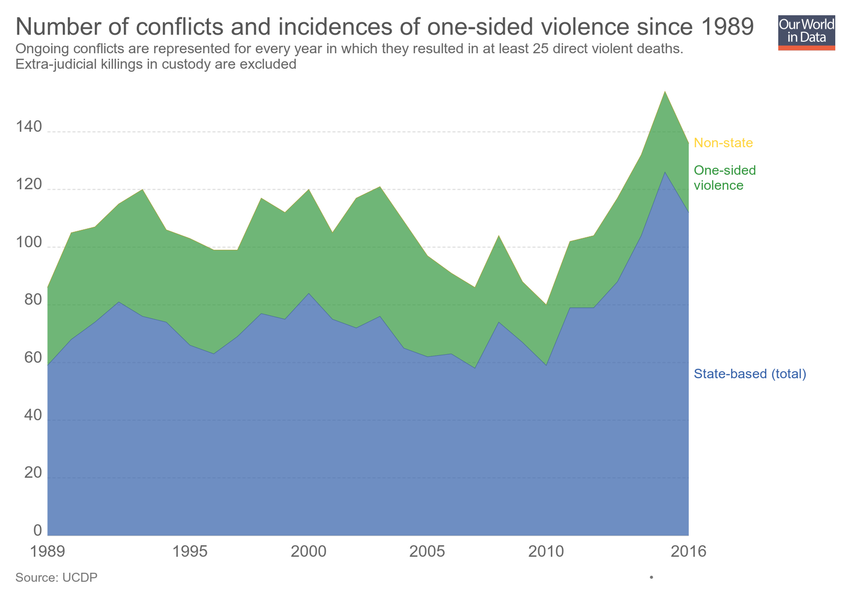
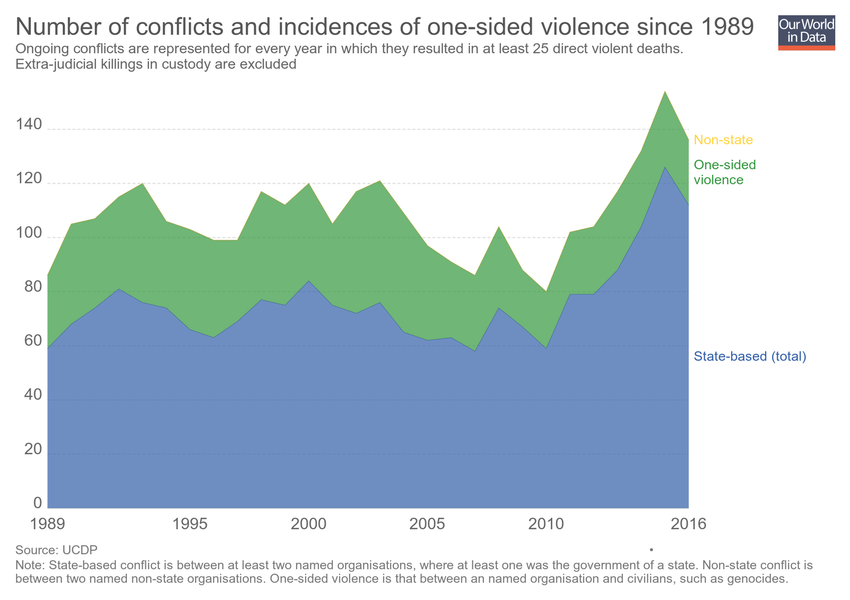
Updating chart number-of-conflicts-and-incidences-of-one-sided-violence-since-1989

diff --git a/grapher/number-of-conflicts-and-incidences-of-one-sided-violence-since-1989.html b/grapher/number-of-conflicts-and-incidences-of-one-sided-violence-since-1989.html
@@ -1,4 +1,4 @@
-<!doctype html><html><head><meta name="viewport" content="width=device-width, initial-scale=1" /><title>Number of conflicts and incidences of one-sided violence since 1989 - Our World in Data</title><meta name="description" content="Ongoing conflicts are represented for every year in which they resulted in at least 25 direct violent deaths. Extra-judicial killings in custody are excluded " /><link rel="canonical" href="https://ourworldindata.org/grapher/number-of-conflicts-and-incidences-of-one-sided-violence-since-1989" /><meta property="fb:app_id" content="1149943818390250" /><meta property="og:url" content="https://ourworldindata.org/grapher/number-of-conflicts-and-incidences-of-one-sided-violence-since-1989" /><meta property="og:title" content="Number of conflicts and incidences of one-sided violence since 1989" /><meta property="og:description" content="Ongoing conflicts are represented for every year in which they resulted in at least 25 direct violent deaths. Extra-judicial killings in custody are excluded " /><meta property="og:image" content="https://ourworldindata.org/grapher/exports/number-of-conflicts-and-incidences-of-one-sided-violence-since-1989.png?v=3" /><meta property="og:image:width" content="850" /><meta property="og:image:height" content="600" /><meta property="og:site_name" content="Our World in Data" /><meta name="twitter:card" content="summary_large_image" /><meta name="twitter:site" content="@OurWorldInData" /><meta name="twitter:creator" content="@OurWorldInData" /><meta name="twitter:title" content="Number of conflicts and incidences of one-sided violence since 1989" /><meta name="twitter:description" content="Ongoing conflicts are represented for every year in which they resulted in at least 25 direct violent deaths. Extra-judicial killings in custody are excluded " /><meta name="twitter:image" content="https://ourworldindata.org/grapher/exports/number-of-conflicts-and-incidences-of-one-sided-violence-since-1989.png?v=3" /><style>
+<!doctype html><html><head><meta name="viewport" content="width=device-width, initial-scale=1" /><title>Number of conflicts and incidences of one-sided violence since 1989 - Our World in Data</title><meta name="description" content="Ongoing conflicts are represented for every year in which they resulted in at least 25 direct violent deaths. Extra-judicial killings in custody are excluded " /><link rel="canonical" href="https://ourworldindata.org/grapher/number-of-conflicts-and-incidences-of-one-sided-violence-since-1989" /><meta property="fb:app_id" content="1149943818390250" /><meta property="og:url" content="https://ourworldindata.org/grapher/number-of-conflicts-and-incidences-of-one-sided-violence-since-1989" /><meta property="og:title" content="Number of conflicts and incidences of one-sided violence since 1989" /><meta property="og:description" content="Ongoing conflicts are represented for every year in which they resulted in at least 25 direct violent deaths. Extra-judicial killings in custody are excluded " /><meta property="og:image" content="https://ourworldindata.org/grapher/exports/number-of-conflicts-and-incidences-of-one-sided-violence-since-1989.png?v=4" /><meta property="og:image:width" content="850" /><meta property="og:image:height" content="600" /><meta property="og:site_name" content="Our World in Data" /><meta name="twitter:card" content="summary_large_image" /><meta name="twitter:site" content="@OurWorldInData" /><meta name="twitter:creator" content="@OurWorldInData" /><meta name="twitter:title" content="Number of conflicts and incidences of one-sided violence since 1989" /><meta name="twitter:description" content="Ongoing conflicts are represented for every year in which they resulted in at least 25 direct violent deaths. Extra-judicial killings in custody are excluded " /><meta name="twitter:image" content="https://ourworldindata.org/grapher/exports/number-of-conflicts-and-incidences-of-one-sided-violence-since-1989.png?v=4" /><style>
         html, body {
             height: 100%;
             margin: 0;
@@ -20,8 +20,8 @@
         }
     </style><noscript><style>
                     figure { display: none !important; }
-                </style></noscript><link rel="stylesheet" href="https://ourworldindata.org/grapher/assets/commons.bundle.62f8703dfc964fd3975c.css" /><link rel="preload" href="/grapher/data/variables/97370.json?v=3" as="fetch" crossorigin /></head><body class="singleChart"><figure data-grapher-src="/grapher/number-of-conflicts-and-incidences-of-one-sided-violence-since-1989"></figure><noscript id="fallback"><img src="/grapher/exports/number-of-conflicts-and-incidences-of-one-sided-violence-since-1989.svg" /><p>Interactive visualization requires JavaScript</p></noscript><script src="https://cdn.polyfill.io/v2/polyfill.min.js?features=es6,fetch"></script><script src="https://ourworldindata.org/grapher/assets/commons.bundle.62f8703dfc964fd3975c.js"></script><script src="https://ourworldindata.org/grapher/assets/charts.bundle.dcf65b68eddaba4c6a58.js"></script><script>
-        var jsonConfig = {"id":2573,"map":{"projection":"World","colorSchemeLabels":[],"colorSchemeValues":[],"colorSchemeMinValue":0,"customNumericColors":[],"customCategoryColors":{},"customCategoryLabels":{},"customHiddenCategories":{}},"tab":"chart","slug":"number-of-conflicts-and-incidences-of-one-sided-violence-since-1989","type":"StackedArea","title":"Number of conflicts and incidences of one-sided violence since 1989","xAxis":{"scaleType":"linear"},"yAxis":{"min":0,"scaleType":"linear"},"version":3,"subtitle":"Ongoing conflicts are represented for every year in which they resulted in at least 25 direct violent deaths. Extra-judicial killings in custody are excluded ","hasMapTab":false,"stackMode":"absolute","dimensions":[{"display":{},"property":"y","variableId":97370}],"sourceDesc":"UCDP","hasChartTab":true,"isPublished":true,"selectedData":[{"index":0,"entityId":37489},{"index":0,"entityId":37488},{"index":0,"entityId":37490}],"addCountryMode":"disabled"};
+                </style></noscript><link rel="stylesheet" href="https://ourworldindata.org/grapher/assets/commons.bundle.62f8703dfc964fd3975c.css" /><link rel="preload" href="/grapher/data/variables/97370.json?v=4" as="fetch" crossorigin /></head><body class="singleChart"><figure data-grapher-src="/grapher/number-of-conflicts-and-incidences-of-one-sided-violence-since-1989"></figure><noscript id="fallback"><img src="/grapher/exports/number-of-conflicts-and-incidences-of-one-sided-violence-since-1989.svg" /><p>Interactive visualization requires JavaScript</p></noscript><script src="https://cdn.polyfill.io/v2/polyfill.min.js?features=es6,fetch"></script><script src="https://ourworldindata.org/grapher/assets/commons.bundle.62f8703dfc964fd3975c.js"></script><script src="https://ourworldindata.org/grapher/assets/charts.bundle.dcf65b68eddaba4c6a58.js"></script><script>
+        var jsonConfig = {"id":2573,"map":{"projection":"World","colorSchemeLabels":[],"colorSchemeValues":[],"colorSchemeMinValue":0,"customNumericColors":[],"customCategoryColors":{},"customCategoryLabels":{},"customHiddenCategories":{}},"tab":"chart","note":"State-based conflict is between at least two named organisations, where at least one was the government of a state. Non-state conflict is between two named non-state organisations. One-sided violence is that between an named organisation and civilians, such as genocides.","slug":"number-of-conflicts-and-incidences-of-one-sided-violence-since-1989","type":"StackedArea","title":"Number of conflicts and incidences of one-sided violence since 1989","xAxis":{"scaleType":"linear"},"yAxis":{"min":0,"scaleType":"linear"},"version":4,"subtitle":"Ongoing conflicts are represented for every year in which they resulted in at least 25 direct violent deaths. Extra-judicial killings in custody are excluded ","hasMapTab":false,"stackMode":"absolute","dimensions":[{"display":{},"property":"y","variableId":97370}],"sourceDesc":"UCDP","hasChartTab":true,"isPublished":true,"selectedData":[{"index":0,"entityId":37489},{"index":0,"entityId":37488},{"index":0,"entityId":37490}],"addCountryMode":"disabled"};
         var figure = document.getElementsByTagName("figure")[0];
         try {
             window.App = {};
